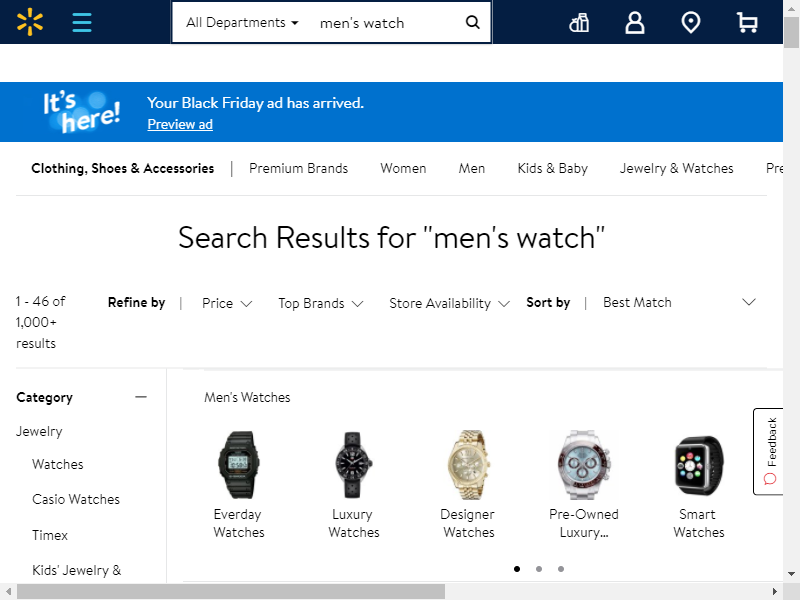
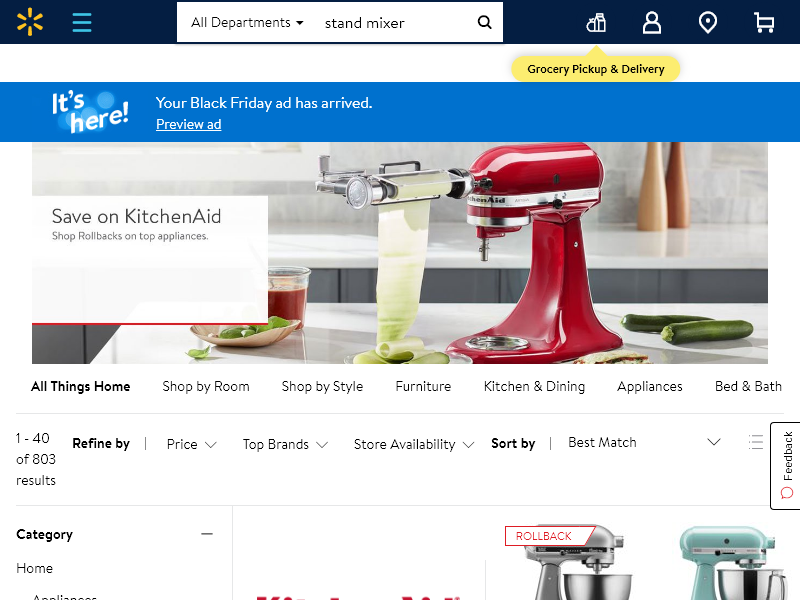
Working database schema for Walmart scrape

diff --git a/scrape.js b/scrape.js
@@ -1,5 +1,11 @@
-var puppeteer = require('puppeteer');
-const SearchTerm = "men's watch";
+const puppeteer = require('puppeteer');
+const mongoose = require('mongoose');
+const db = require("./models/StoreSearch");
+
+
+mongoose.connect("mongodb://localhost/ShoppingDatabase", { useNewUrlParser: true });
+
+const SearchTerm = "stand mixer";
 async function amazonSearch() {
   try{
   const browser = await puppeteer.launch();
@@ -25,7 +31,8 @@ async function walmartSearch() {
   await page.waitFor(750);
   await page.screenshot({path: './screenshots/walmart.png'});
   const items = await page.evaluate(() => {
-    const data = [];
+    const storeSource = 'Walmart';
+    let data = [];
     const titleTextSearch = 'a.product-title-link';
     const priceTextSearch = 'div.product-price-with-fulfillment span.price-main-block span.visuallyhidden';
     const imageTextSearch = 'img';
@@ -34,26 +41,33 @@ async function walmartSearch() {
       title = item.querySelector(titleTextSearch).title.trim();
       price = item.querySelector(priceTextSearch).innerText.trim();
       image = item.querySelector(imageTextSearch).src.trim();
-      sourcePage = "https://walmart.com/"+item.querySelector(titleTextSearch).href.trim();
+      itemLink = "https://walmart.com/"+item.querySelector(titleTextSearch).href.trim();
     }};
     const allItems = document.querySelectorAll('li.u-size-6-12');
     let i=0;
-    for(const a of allItems) {
-      i++;
+    for(a of allItems) {
       grabInfo(a);
-      console.log('title: ',a.title);
+      // console.log('title: ',a.title);
       data.push({
-        count: i,
         title,
         price,
         image,
-        sourcePage
+        itemLink,
+        storeSource 
     });
+    // console.log(data);
   }
   return data;
   });
-  console.log(JSON.stringify(items));
+  console.log(items);
+  items.forEach(element => {
+    console.log("Element test: ", element);
+    try{db.create(element);}
+    catch(err){console.log(err);}
+  });
+  // items.forEach(element => {db.StoreSearch.create(element).then(res => console.log(res)).catch(err => console.log(err));});
+  console.log("Check database");
   await browser.close();
-}catch (err){console.log(err)}}
+}catch (err){console.log(err);}}
 walmartSearch();
-amazonSearch();
+// amazonSearch();

diff --git a/models/StoreSearch.js b/models/StoreSearch.js
@@ -1,0 +1,35 @@
+var mongoose = require("mongoose");
+
+// Save a reference to the Schema constructor
+var Schema = mongoose.Schema;
+
+// Using the Schema constructor, create a new UserSchema object
+// This is similar to a Sequelize model
+var StoreSchema = new Schema({
+  title: {
+    type: String,
+    required: true
+  },
+  price: {
+    type: String,
+    required: true
+},
+  itemLink: {
+    type: String,
+    required: true
+  },
+  image: {
+    type: String,
+    required: false
+},
+  storeSource: {
+      type: String,
+      required: true
+  }
+});
+
+// This creates our model from the above schema, using mongoose's model method
+var StoreSearch = mongoose.model("StoreSearch", StoreSchema);
+
+// Export the Article model
+module.exports = StoreSearch;
